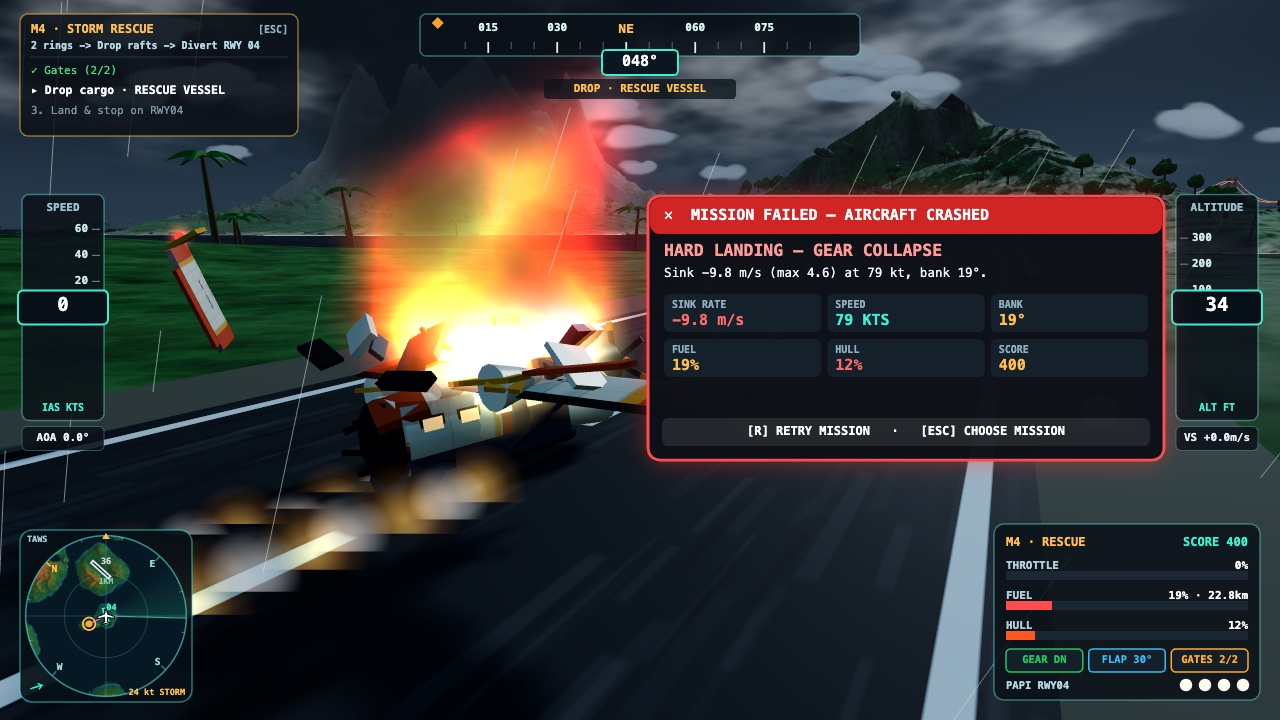
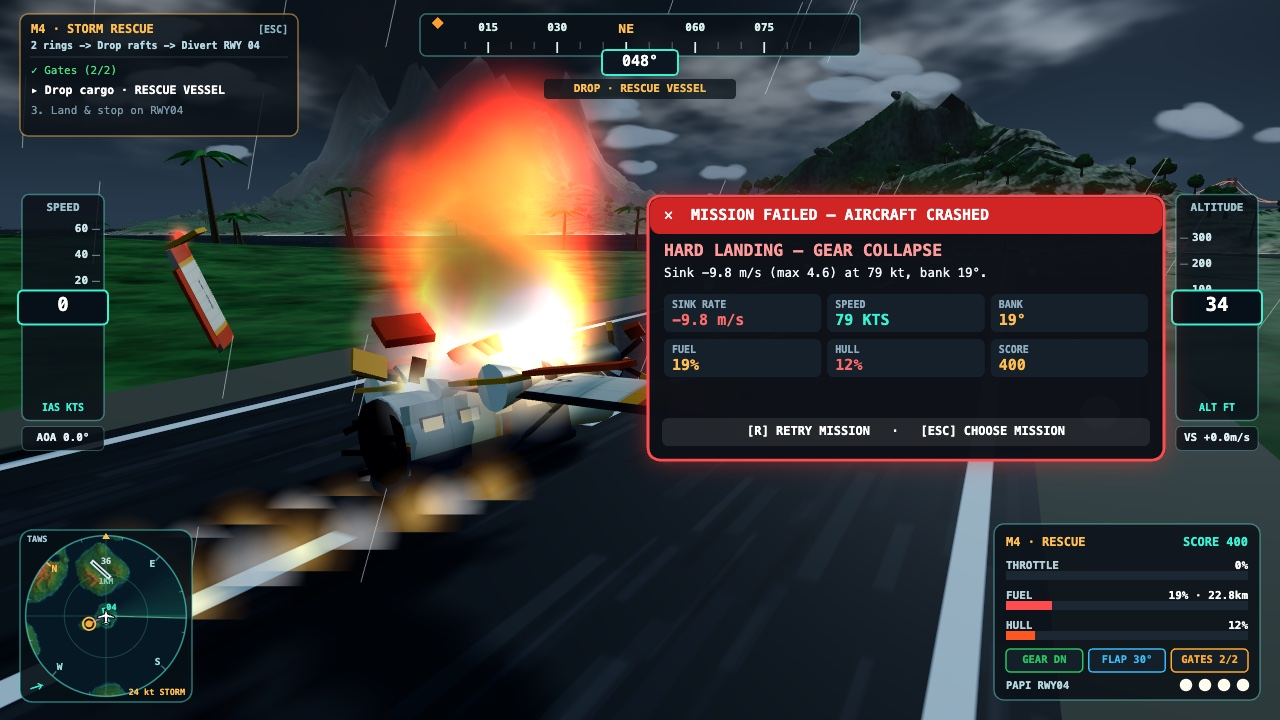
Garuda v4: realistic inelastic crash stopping (5-point ground friction) & delayed post-impact fuel fire

Changed region(s): [[0.125, 0.0611, 0.5312, 0.825], [0.1562, 0.8556, 0.1875, 0.8861]]

diff --git a/game/src/flight-collision.js b/game/src/flight-collision.js
@@ -1,4 +1,4 @@
-// 5-point airframe terrain/obstacle collision, progressive malfunction cascade, Coulomb static stop, and buoyant water ditching.
+// 5-point airframe terrain/obstacle collision, progressive malfunction cascade, realistic inelastic stop, delayed fuel fire & ditching.
 import * as T from 'three';
 import { AIRCRAFT_SPEC as SP, GRAVITY as G, MPS_TO_KTS } from './config.js';
 import { getRunwayAt, sampleTerrainHeight as sH, sampleTerrainNormal as sN } from './terrain-world.js';
@@ -13,42 +13,52 @@ export const AIRFRAME_PROBES = [
 export function enforceAirframeAboveTerrain(s, margin = 0.45) {
   let pen=0;const wp=v3();
   for(const p of AIRFRAME_PROBES){wp.copy(p.local).applyQuaternion(s.quaternion).add(s.position);pen=MX(pen,MX(0,sH(wp.x,wp.z))+margin-wp.y);}
-  if(pen>0)s.position.y+=pen;
+  if(pen>0){s.position.y+=pen;return true;}
+  return false;
 }
 
-export function triggerCrash(s, mode, title, detail, sinkMps, speedKts, bankDeg, onRunway, sev = 'catastrophic') {
+export function triggerCrash(s, mode, title, detail, sinkMps, speedKts, bankDeg, onRunway, sev = 'catastrophic', cause = 'terrain') {
   const cat=sev==='catastrophic',hull=MN(s.hullPct,cat?12:34);
-  Object.assign(s,{status:'crashed',crashMode:mode,crashSeverity:sev,crashImpactKts:speedKts,crashTime:0,cameraShake:cat?.98:.62,hullPct:hull,engineHealth:MN(s.engineHealth,cat?8:28),gearIntact:false,throttle:0,incidentReport:{outcome:'CRASHED',crashMode:mode,severity:sev,title,detail,sinkMps,speedKts,bankDeg,onRunway,fuelPct:s.fuelPct,hullPct:hull}});
-  if(mode==='ground'){s.velocity.multiplyScalar(cat?.54:.44);s.velocity.y=MN(0,s.velocity.y*.12);s.angularVel.set(0,(Math.random()>.5?1:-1)*(cat?.85:.4),0);enforceAirframeAboveTerrain(s,.35);}
-  else{s.velocity.multiplyScalar(.11);s.velocity.y=MN(-4.5,s.velocity.y*.45);s.position.y=MN(s.position.y,.45);}
+  const fire=mode!=='water'&&cat&&(cause==='obstacle'||cause==='mountain'||speedKts>=86||sinkMps>=13);
+  const fDelay=cause==='obstacle'||cause==='mountain'?.85:1.15;
+  Object.assign(s,{status:'crashed',crashMode:mode,crashSeverity:sev,crashCause:cause,hasFuelFire:fire,fuelFireDelay:fDelay,fuelFireIntensity:0,crashImpactKts:speedKts,crashTime:0,cameraShake:cat?.95:.6,hullPct:hull,engineHealth:MN(s.engineHealth,cat?8:28),gearIntact:false,throttle:0,incidentReport:{outcome:'CRASHED',crashMode:mode,crashCause:cause,severity:sev,hasFuelFire:fire,title,detail,sinkMps,speedKts,bankDeg,onRunway,fuelPct:s.fuelPct,hullPct:hull}});
+  if(mode==='ground'){
+    const keep=cause==='obstacle'?.16:cause==='mountain'?.2:cause==='runway'?(cat?.44:.48):.32;
+    s.velocity.multiplyScalar(keep);s.velocity.y=MN(0,s.velocity.y*(cause==='obstacle'?.2:.12));
+    s.angularVel.set(0,(Math.random()>.5?1:-1)*(cause==='obstacle'?.55:cat?.7:.35),0);enforceAirframeAboveTerrain(s,.35);
+  }else{s.velocity.multiplyScalar(.09);s.velocity.y=MN(-4.5,s.velocity.y*.4);s.position.y=MN(s.position.y,.45);}
 }
 
 export function stepCrashAnimation(s, dt, wind, updTel) {
   const v=s.velocity,pos=s.position;
-  s.crashTime+=dt;s.cameraShake=MX(0,s.cameraShake-dt*1.6);
-  s.propRpm=MX(0,s.propRpm-dt*.42);s.propRpmLeft=MX(0,s.propRpmLeft-dt*.65);
+  s.crashTime+=dt;s.cameraShake=MX(0,s.cameraShake-dt*1.8);
+  if(s.hasFuelFire&&s.crashTime>s.fuelFireDelay)s.fuelFireIntensity=MN(1,s.fuelFireIntensity+dt*.85);
+  s.propRpm=MX(0,s.propRpm-dt*.48);s.propRpmLeft=MX(0,s.propRpmLeft-dt*.72);
   s.propAngle+=dt*s.propRpm*46;s.propAngleLeft+=dt*s.propRpmLeft*46;
 
   if(s.crashMode==='water'){
     const hs=HY(v.x,v.z);
-    if(hs>.12){const sc=MX(0,1-(MN(hs/dt,6.4+.42*hs*hs)*dt)/hs);v.x*=sc;v.z*=sc;}else v.x=v.z=0;
+    if(hs>.1){const sc=MX(0,1-(MN(hs/dt,12.5+.72*hs*hs)*dt)/hs);v.x*=sc;v.z*=sc;}else v.x=v.z=0;
     const e=toE(s.quaternion);
     if(s.crashSeverity==='hard'&&s.crashTime<7.5){v.y=(-.35+Math.sin(s.crashTime*2.1)*.16-pos.y)*2.6;pos.addScaledVector(v,dt);e.x+=(.06-e.x)*MN(1,dt*2.4);e.z+=(.14-e.z)*MN(1,dt*1.8);}
     else{if(pos.y>-13.5){const tv=pos.y>-.8?-4.8:-(1.55+MN(1,s.crashTime/2.2)*1.15);v.y=MN(-.6,v.y+(tv-v.y)*MN(1,dt*7.5));pos.addScaledVector(v,dt);}else v.set(0,0,0);e.x+=(-.68-e.x)*MN(1,dt*3.4);e.z+=(.52-e.z)*MN(1,dt*1.6);e.y+=dt*.05;}
     s.quaternion.setFromEuler(e);
   }else{
     const tY=sH(pos.x,pos.z),gY=MX(0,tY),n=sN(pos.x,pos.z);
-    if(pos.y<=gY+1.55&&s.crashTime>.35&&v.length()<1.35){v.set(0,0,0);s.angularVel.set(0,0,0);enforceAirframeAboveTerrain(s,.35);updTel(s,wind);return;}
     v.y-=G*dt;pos.addScaledVector(v,dt);
-    if(tY<-.4&&pos.y<=.8){s.crashMode='water';v.y=MN(-1.2,v.y*.25);updTel(s,wind);return;}
-    if(pos.y<=gY+1.35){
-      pos.y=gY+1.35;const vn=v.dot(n);if(vn<0)v.addScaledVector(n,-vn);if(v.y>0)v.y=0;
-      const spd=v.length();if(spd>1.35)v.multiplyScalar(MX(0,1-((1.22*G+spd*.55)*dt)/spd));else{v.set(0,0,0);s.angularVel.set(0,0,0);}
-      const e=toE(s.quaternion),k=MN(1,dt*4.5);
+    if(tY<-.4&&pos.y<=.8){s.crashMode='water';s.hasFuelFire=false;s.fuelFireIntensity=0;v.y=MN(-1.2,v.y*.25);updTel(s,wind);return;}
+    const hitG=enforceAirframeAboveTerrain(s,.35);
+    if(hitG||pos.y<=gY+1.72){
+      if(pos.y<gY+1.35)pos.y=gY+1.35;
+      const vn=v.dot(n);if(vn<0)v.addScaledVector(n,-vn);if(v.y>0)v.y=0;
+      const spd=v.length(),onRw=Boolean(getRunwayAt(pos.x,pos.z,8));
+      const dec=onRw?1.15*G+spd*.32:(s.crashCause==='obstacle'||s.crashCause==='mountain'?3.2*G+spd*1.1:2.5*G+spd*.8);
+      if(spd>1.2)v.multiplyScalar(MX(0,1-(dec*dt)/spd));else{v.set(0,0,0);s.angularVel.set(0,0,0);}
+      const e=toE(s.quaternion),k=MN(1,dt*5.2);
       e.x+=(AT(-n.z,n.y)*.65-.03-e.x)*k;e.z+=(AT(n.x,n.y)*.65+(e.z>=0?.22:-.22)-e.z)*k;e.y+=s.angularVel.y*dt;
-      s.quaternion.setFromEuler(e);s.angularVel.multiplyScalar(MX(0,1-dt*4.2));
+      s.quaternion.setFromEuler(e);s.angularVel.multiplyScalar(MX(0,1-dt*5.5));
+      enforceAirframeAboveTerrain(s,.35);
     }else s.quaternion.multiply(new T.Quaternion().setFromEuler(new T.Euler(s.angularVel.x*dt,s.angularVel.y*dt,s.angularVel.z*dt,'YXZ'))).normalize();
-    enforceAirframeAboveTerrain(s,.35);
   }
   updTel(s,wind);
 }
@@ -64,30 +74,30 @@ export function resolveAirframeContacts(s, ctrl, dt, ev, checkObs) {
       const L=pr.name==='leftWing';mf[L?'leftEngineOut':'fuelLeak']=true;
       ev?.onMalfunction?.(L?{code:'PORT ENGINE OUT',detail:'Tree struck left wing.'}:{code:'WING FUEL LEAK',detail:'Tree punctured wing tank.'});break;
     }
-    return crash('ground',hit.label,`Struck ${hit.kind==='tree'?'tree':'structure'} at ${R(kts)} kt (${pr.name}).`,A(v.y),kts,A(s.rollDeg),false,kts>=78||hit.kind!=='tree'?'catastrophic':'hard');
+    return crash('ground',hit.label,`Struck ${hit.kind==='tree'?'tree':'structure'} at ${R(kts)} kt (${pr.name}).`,A(v.y),kts,A(s.rollDeg),false,kts>=82||hit.kind!=='tree'?'catastrophic':'hard','obstacle');
   }
 
   if(!s.onGround)for(const pr of AIRFRAME_PROBES){
     if(pr.name==='belly'||pr.name==='tail')continue;
     wp.copy(pr.local).applyQuaternion(s.quaternion).add(p);const pY=sH(wp.x,wp.z);
-    if(pY>1.5&&wp.y<=pY+.4){const n=sN(wp.x,wp.z);if(!getRunwayAt(p.x,p.z,6)&&(n.y<.86||kts>55))return crash('ground',n.y<.82?'MOUNTAIN IMPACT':'TERRAIN IMPACT',`Airframe (${pr.name}) struck slope at ${R(kts)} kt.`,MX(0,-v.y),kts,A(s.rollDeg),false,'catastrophic');}
+    if(pY>1.5&&wp.y<=pY+.4){const n=sN(wp.x,wp.z);if(!getRunwayAt(p.x,p.z,6)&&(n.y<.86||kts>55))return crash('ground',n.y<.82?'MOUNTAIN IMPACT':'TERRAIN IMPACT',`Airframe (${pr.name}) struck slope at ${R(kts)} kt.`,MX(0,-v.y),kts,A(s.rollDeg),false,kts>=80||n.y<.82?'catastrophic':'hard',n.y<.85?'mountain':'terrain');}
   }
 
   const tY=sH(p.x,p.z),sY=MX(0,tY),gC=s.gearDown&&s.gearIntact?2.45:1.35;
   if(p.y<=sY+gC){
-    const sk=-v.y,isW=tY<.25,rw=getRunwayAt(p.x,p.z,6),bk=A(s.rollDeg);
+    const sk=-v.y,isW=tY<.25,rw=getRunwayAt(p.x,p.z,6),bk=A(s.rollDeg),cs=rw?'runway':'terrain';
     if(!s.onGround&&(sk>.5||isW)){
-      if(isW){const d=kts<75&&sk<6.5;crash('water',d?'EMERGENCY WATER DITCHING':'WATER IMPACT — SINKING',d?`Ditched at ${R(kts)} kt (-${sk.toFixed(1)} m/s). Floating briefly.`:`Hit ocean at ${R(kts)} kt (-${sk.toFixed(1)} m/s). Flooding rapidly.`,sk,kts,bk,false,d?'hard':'catastrophic');}
+      if(isW){const d=kts<75&&sk<6.5;crash('water',d?'EMERGENCY WATER DITCHING':'WATER IMPACT — SINKING',d?`Ditched at ${R(kts)} kt (-${sk.toFixed(1)} m/s). Floating briefly.`:`Hit ocean at ${R(kts)} kt (-${sk.toFixed(1)} m/s). Flooding rapidly.`,sk,kts,bk,false,d?'hard':'catastrophic','water');}
       else if(sk>SP.crashSinkMps||bk>28){
         if(s.hullPct>55&&kts<82&&sk<10.5&&bk<=34&&rw){
           s.hullPct=MX(28,s.hullPct-36);s.engineHealth=MX(35,s.engineHealth-32);s.gearIntact=false;s.cameraShake=.72;mf.leftEngineOut=mf.gearDamaged=mf.controlDamage=true;
           ev?.onTouchdown?.({sinkMps:sk,hard:true,onRunway:true,gearUp:false});ev?.onMalfunction?.({code:'PORT ENGINE & GEAR FAILURE',detail:'Severe touchdown damaged left engine & gear!'});
-        }else crash('ground',bk>28?`WINGTIP STRIKE (${R(bk)}° BANK)`:'HARD LANDING — GEAR COLLAPSE',`Sink -${sk.toFixed(1)} m/s (max 4.6) at ${R(kts)} kt, bank ${R(bk)}°.`,sk,kts,bk,Boolean(rw),kts>=88||sk>=13||bk>45?'catastrophic':'hard');
+        }else crash('ground',bk>28?`WINGTIP STRIKE (${R(bk)}° BANK)`:'HARD LANDING — GEAR COLLAPSE',`Sink -${sk.toFixed(1)} m/s (max 4.6) at ${R(kts)} kt, bank ${R(bk)}°.`,sk,kts,bk,Boolean(rw),kts>=92||sk>=13.5||bk>48?'catastrophic':'hard',cs);
       }else if(!s.gearDown){
         s.hullPct=MX(12,s.hullPct-36);s.engineHealth=MX(40,s.engineHealth-28);mf.flapJammed=true;
-        if(kts>82)crash('ground','GEAR-UP IMPACT',`Belly impact at ${R(kts)} kt with gear retracted.`,sk,kts,bk,Boolean(rw),kts>=98?'catastrophic':'hard');
+        if(kts>82)crash('ground','GEAR-UP IMPACT',`Belly impact at ${R(kts)} kt with gear retracted.`,sk,kts,bk,Boolean(rw),kts>=102?'catastrophic':'hard',cs);
         else{s.cameraShake=.55;ev?.onTouchdown?.({sinkMps:sk,hard:true,onRunway:Boolean(rw),gearUp:true});ev?.onMalfunction?.({code:'BELLY SCRAPE · FLAPS JAMMED',detail:'Belly touchdown jammed flaps.'});}
-      }else if(!rw&&kts>58){const n=sN(p.x,p.z);crash('ground',n.y<.85?'MOUNTAIN IMPACT':'TERRAIN IMPACT',`Impacted terrain at ${R(kts)} kt (-${sk.toFixed(1)} m/s).`,sk,kts,bk,false,kts>=82||n.y<.78?'catastrophic':'hard');}
+      }else if(!rw&&kts>58){const n=sN(p.x,p.z);crash('ground',n.y<.85?'MOUNTAIN IMPACT':'TERRAIN IMPACT',`Impacted terrain at ${R(kts)} kt (-${sk.toFixed(1)} m/s).`,sk,kts,bk,false,kts>=84||n.y<.78?'catastrophic':'hard',n.y<.85?'mountain':'terrain');}
       else{
         const hd=sk>SP.maxSafeSinkMps;
         if(hd){s.hullPct=MX(25,s.hullPct-R((sk-3.5)*9));s.gearIntact=sk<7.2;s.cameraShake=.45;if(sk>6){mf.gearDamaged=!s.gearIntact;mf.leftEngineOut=sk>6.8;ev?.onMalfunction?.(sk>6.8?{code:'PROP STRIKE · ENGINE #1 OUT',detail:'Damaged left engine.'}:{code:'GEAR STRUT DAMAGED',detail:'Bent main gear.'});}}

diff --git a/game/src/effects-particles.js b/game/src/effects-particles.js
@@ -72,10 +72,14 @@ export function createEffectsSystem(scene) {
     }
   };
 
-  function emitRoaringFireBurst(wp, q, fy, isW = false, sev = 'catastrophic') {
+  function emitRoaringFireBurst(wp, q, fy, isW = false, sev = 'catastrophic', cause = 'terrain', postFire = false) {
     if(isW){emitWaterSplash(wp,1.45);for(let i=0;i<14;i++)emit(v3(wp.x+rn(8),1+R()*2.5,wp.z+rn(8)),v3(rn(3.5),2.2+R()*2.6,rn(3.5)),'#e8f5fa',2+R()*.8,4,13,.55);return;}
-    if(sev==='hard'){shed(wp,v3(),fy,5);for(let i=0;i<8;i++)emit(jit(wp,3.2,.8+i*.7,3.2),v3(rn(2),2.5+R()*2.2,rn(2)),i<2?'#ff8c2b':'#2d333a',1.5+R()*.8,2.2,8,i<2?.85:.62,0,i<2);return;}
-    shed(wp,v3(),fy,16,true);
+    const cat=sev==='catastrophic';
+    shed(wp,v3(),fy,cat?14:6,cat);
+    const dustCl=cause==='runway'||cause==='obstacle'?'#8a949e':'#6b5742';
+    for(let i=0;i<(cat?16:10);i++)emit(jit(wp,4.4,.5+R()*1.8,4.4),v3(rn(7.5),2.2+R()*4.2,rn(7.5)),i%3?dustCl:'#2c333a',1.4+R()*.9,2.8,cat?11.5:8.5,.7,-3.5);
+    for(let i=0;i<(cat?12:8);i++)emit(jit(wp,2.8,.4+R()*1.2,2.8),v3(rn(9),3.5+R()*5.5,rn(9)),i%2?'#ffe680':'#ffaa2b',.38+R()*.25,1.1,2.2,.95,-14,true);
+    if(!postFire)return;
     for(const anc of [v3(3.15,1,-.5),v3(1.6,.6,.3),v3(-2.6,1.1,-.8),v3(.4,.9,-1.6)]){
       const o=anc.applyQuaternion(q).add(wp);
       for(let i=0;i<4;i++)emit(jit(o,1.4,i*.65,1.4),v3(rn(1.6),2.8+R()*2,rn(1.6)),i<2?'#fff0a6':'#ff991a',.7+R()*.4,2.8+R()*1.4,5.5,.95,0,true);
@@ -99,22 +103,22 @@ export function createEffectsSystem(scene) {
   rL.visible=rL.frustumCulled=false;scene.add(rL);
 
   function updateEffects(dt, tS, s, cP, rain, isC) {
-    const inW=s.crashMode==='water',cat=s.status==='crashed'&&s.crashSeverity!=='hard';
+    const inW=s.crashMode==='water',fi=s.fuelFireIntensity??0;
     if(inW){if((fC+=dt)>=.065){fC=0;emit(v3(s.position.x+rn(7),.35,s.position.z+rn(7)),v3(rn(2),1.6+R()*1.8,rn(2)),++bI%2?'#c2dce6':'#eef9ff',1.6,2.6,9.2,.52);}}
     else if(s.status==='crashed'||s.hullPct<68||s.engineHealth<68||s.malfunctions?.leftEngineOut){
-      if((fC+=dt)>=(s.status==='crashed'?.032:.055)){
+      if((fC+=dt)>=(fi>.1?.036:.06)){
         fC=0;const wp=(s.status==='crashed'&&R()<.45?v3(-2.4+R()*5.2,.8,-1.2+R()*2):v3(3.15,.9,-.35)).applyQuaternion(s.quaternion).add(s.position);
-        if(cat||(s.status!=='crashed'&&s.hullPct<45))emit(jit(wp,1.2,.2,1.2),v3(rn(2.4),4.4+R()*3,rn(2.4)),R()<.35?'#fff0a6':R()<.7?'#ff6a00':'#d9260a',.48+R()*.3,2.6+R()*1.6,6.4,.94,0,true);
-        emit(jit(wp,1.4,1.2,1.4),v3(rn(2.5),4.2+R()*2.4,rn(2.5)),'#22282e',2.1,3,12.5,.68);
+        if(fi>.05||(s.status!=='crashed'&&s.hullPct<40))emit(jit(wp,1.2,.2,1.2),v3(rn(2.4),(2.6+fi*2.4)+R()*2.6,rn(2.4)),R()<.35?'#fff0a6':R()<.7?'#ff6a00':'#d9260a',.45+R()*.3,(1.6+fi*1.8)+R()*1.2,3.5+fi*3.2,.55+fi*.4,0,true);
+        emit(jit(wp,1.4,1.1,1.4),v3(rn(2.4),3.6+R()*2.2,rn(2.4)),'#22282e',2,2.6,11.5,.62);
       }
     }
     if(s.status==='crashed'&&s.crashMode==='ground'){
       const hs=HY(s.velocity.x,s.velocity.z),gy=sH(s.position.x,s.position.z);
-      if(gy>.25&&s.position.y<=gy+3.2&&hs>1.2&&(!lastG||HY(s.position.x-lastG.x,s.position.z-lastG.z)>=2.1)){
-        const yw=Math.atan2(-s.velocity.x,-s.velocity.z),wg=v3(4.8,0,0).applyQuaternion(s.quaternion).add(s.position);
+      if(gy>.25&&s.position.y<=gy+3.2&&hs>1.4&&(!lastG||HY(s.position.x-lastG.x,s.position.z-lastG.z)>=1.9)){
+        const yw=Math.atan2(-s.velocity.x,-s.velocity.z),wg=v3(4.8,0,0).applyQuaternion(s.quaternion).add(s.position),rw=s.crashCause==='runway';
         stamp(s.position.x,s.position.z,yw,1.05,1.15);stamp(wg.x,wg.z,yw,.55,.9);lastG=s.position.clone();
         if(hs>9.5)shed(s.position,s.velocity,gy,hs>18?3:1);
-        for(let k=0;k<3;k++)emit(v3(s.position.x+rn(4.5),gy+.6,s.position.z+rn(4.5)),v3(-s.velocity.x*.25+rn(5.5),2.5+R()*4.2,-s.velocity.z*.25+rn(5.5)),k?'#524030':'#ffc44d',k?1.35:.38,k?2.8:1.5,k?9.2:2.6,k?.72:.95,-9.5,!k);
+        for(let k=0;k<4;k++){const spk=k<(rw?2:1);emit(v3(s.position.x+rn(4.2),gy+.55,s.position.z+rn(4.2)),v3(-s.velocity.x*.28+rn(6),2.4+R()*4.6,-s.velocity.z*.28+rn(6)),spk?'#ffd666':rw?'#cbd5e1':'#5c4835',spk?.36:1.3,spk?1.2:2.6,spk?2.2:9,spk?.95:.72,spk?-13:-7,spk);}
       }
     }
     for(const p of pool){if(p.l<=0)continue;if((p.l-=dt)<=0){p.sp.visible=false;continue;}const r=1-p.l/p.mx;if(p.g)p.v.y+=p.g*dt;p.sp.position.addScaledVector(p.v,dt);p.sp.scale.setScalar(p.s0+(p.s1-p.s0)*r);p.m.opacity=p.o*(1-r*r);}

diff --git a/game/src/flight-physics.js b/game/src/flight-physics.js
@@ -13,7 +13,7 @@ export function createFlightState() {
     throttle:.72,flapStage:0,gearDown:true,brakes:false,fuelKg:SP.fuelCapacityKg,fuelPct:100,fuelRangeKm:42,inThermal:false,
     hullPct:100,engineHealth:100,gearIntact:true,engineTempC:540,propAngle:0,propAngleLeft:0,propRpm:.72,propRpmLeft:.72,
     airspeedMps:62,airspeedKts:120,altitudeM:165,altitudeFt:541,aglM:150,headingDeg:0,pitchDeg:0,rollDeg:0,vsiMps:0,aoaDeg:3,gLoad:1,
-    stalling:false,overspeed:false,lowFuel:false,onGround:false,status:'flying',crashMode:null,crashSeverity:null,crashImpactKts:0,crashTime:0,cameraShake:0,touchdownTimer:0,
+    stalling:false,overspeed:false,lowFuel:false,onGround:false,status:'flying',crashMode:null,crashSeverity:null,crashCause:null,hasFuelFire:false,fuelFireDelay:1,fuelFireIntensity:0,crashImpactKts:0,crashTime:0,cameraShake:0,touchdownTimer:0,
     malfunctions:{leftEngineOut:false,fuelLeak:false,flapJammed:false,controlDamage:false,gearDamaged:false},
     controlSurface:{aileron:0,elevator:0,rudder:0,flaps:0},activeRunwayId:'RWY36',papiGlideDeg:4.5,papiWhiteCount:2,incidentReport:null,
   };
@@ -41,7 +41,7 @@ export function resetFlightState(s, p) {
   s.position.set(p.x,p.y,p.z);s.quaternion.setFromEuler(new T.Euler(((p.pitchDeg??0)*PI)/180,(-p.headingDeg*PI)/180,((p.rollDeg??0)*PI)/180,'YXZ'));
   s.velocity.copy(qD(FWD,s.quaternion)).multiplyScalar((p.speedKts??115)/MPS_TO_KTS);s.angularVel.set(0,0,0);
   const thr=p.throttle??.68,fp=p.fuelPct??100;
-  Object.assign(s,{throttle:thr,flapStage:p.flapStage??0,gearDown:p.gearDown??false,brakes:false,fuelPct:fp,fuelKg:(fp/100)*SP.fuelCapacityKg,hullPct:p.hullPct??100,engineHealth:p.engineHealth??100,gearIntact:true,engineTempC:540,propRpm:MX(.25,thr),propRpmLeft:MX(.25,thr),onGround:Boolean(p.onGround),status:'flying',crashMode:null,crashSeverity:null,incidentReport:null,crashImpactKts:0,crashTime:0,cameraShake:0,touchdownTimer:0,malfunctions:{leftEngineOut:false,fuelLeak:false,flapJammed:false,controlDamage:false,gearDamaged:false}});
+  Object.assign(s,{throttle:thr,flapStage:p.flapStage??0,gearDown:p.gearDown??false,brakes:false,fuelPct:fp,fuelKg:(fp/100)*SP.fuelCapacityKg,hullPct:p.hullPct??100,engineHealth:p.engineHealth??100,gearIntact:true,engineTempC:540,propRpm:MX(.25,thr),propRpmLeft:MX(.25,thr),onGround:Boolean(p.onGround),status:'flying',crashMode:null,crashSeverity:null,crashCause:null,hasFuelFire:false,fuelFireDelay:1,fuelFireIntensity:0,incidentReport:null,crashImpactKts:0,crashTime:0,cameraShake:0,touchdownTimer:0,malfunctions:{leftEngineOut:false,fuelLeak:false,flapJammed:false,controlDamage:false,gearDamaged:false}});
   updateDerivedTelemetry(s,v3());
 }
 

diff --git a/game/src/shots.js b/game/src/shots.js
@@ -31,11 +31,11 @@ export function applyShotPreset(name, { flightState: s, missionManager: mm, worl
   if (name === 'debrief') {
     const m = mm.loadMission(3); mm.setShowcaseProgress(2, 400); world.setAtmospherePreset(m.atmosphere);
     rst(-760, 10.35, 860, 48, 0, 11, 0, 0, 2, true, 19, 12, 8, true);
-    Object.assign(s, { status: 'crashed', crashMode: 'ground', crashSeverity: 'catastrophic', propRpm: 0, propRpmLeft: 0, gearIntact: false, incidentReport: { outcome: 'CRASHED', title: 'HARD LANDING — GEAR COLLAPSE', detail: 'Sink -9.8 m/s (max 4.6) at 79 kt, bank 19°.', sinkMps: 9.8, speedKts: 79, bankDeg: 19, onRunway: true, fuelPct: 19, hullPct: 12 } });
+    Object.assign(s, { status: 'crashed', crashMode: 'ground', crashCause: 'runway', crashSeverity: 'catastrophic', hasFuelFire: true, crashTime: 2.6, fuelFireDelay: 0.9, fuelFireIntensity: 1, propRpm: 0, propRpmLeft: 0, gearIntact: false, incidentReport: { outcome: 'CRASHED', title: 'HARD LANDING — GEAR COLLAPSE', detail: 'Sink -9.8 m/s (max 4.6) at 79 kt, bank 19°.', sinkMps: 9.8, speedKts: 79, bankDeg: 19, onRunway: true, fuelPct: 19, hullPct: 12 } });
     rig.setMode('orbit'); rig.setCustomOrbitAngle(1.42);
     for (let k = 0; k < 28; k++) ac.updateAircraftModel(s, 0.04, 10.3 + k * 0.04, true);
     world.updateWorld(0.05, 11.4, s.position, m.wind, s.quaternion); rig.updateCamera(s, 0.05, true);
-    fx.stampCrashGougeTrail(s.position, s.headingDeg, 36); fx.emitRoaringFireBurst(s.position, s.quaternion, 8.5, false);
+    fx.stampCrashGougeTrail(s.position, s.headingDeg, 36); fx.emitRoaringFireBurst(s.position, s.quaternion, 8.5, false, 'catastrophic', 'runway', true);
     fx.emitTouchdownSmoke(s.position, s.quaternion, true); fx.updateEffects(0.18, 11.58, s, camera.position, 1, false);
     ck.updateCockpit(s, 35, false, false, 11.58, 1); return true;
   }

diff --git a/game/src/main.js b/game/src/main.js
@@ -98,10 +98,10 @@ function bootGaruda() {
     onMalfunction:(f)=>{aud.playTouchdown(true);hud.showBanner(`MALFUNCTION: ${f.code}`,'danger',3.4);rad(`Caution Garuda 4! ${f.code}. ${f.detail}`,true);},
     onFullStop:(r)=>{aud.playRingChime();hud.showBanner(r.title,'good',4);rad(r.missionComplete?'Merpati Tower: Full stop confirmed. Mission complete!':'Merpati Tower: Full stop confirmed. Mission gates remain open.');},
     onCrash:(r)=>{
-      const fy=Math.max(0,sampleTerrainHeight(st.position.x,st.position.z));fx.emitRoaringFireBurst(st.position,st.quaternion,fy,r.crashMode==='water',r.severity||'catastrophic');
+      const fy=Math.max(0,sampleTerrainHeight(st.position.x,st.position.z));fx.emitRoaringFireBurst(st.position,st.quaternion,fy,r.crashMode==='water',r.severity||'catastrophic',r.crashCause||'terrain',false);
       if(r.crashMode!=='water')fx.emitTouchdownSmoke(st.position,st.quaternion,true);
       aud.playCrash();hud.showBanner(r.title,'danger',4.5);
-      rad(r.crashMode==='water'?'SAR Dispatch: Garuda 4 in the water! Coast Guard deploying.':r.severity==='hard'?'Tower: Hard impact on deck — crash trucks rolling!':'Mayday! Catastrophic impact — rescue dispatched!',true);
+      rad(r.crashMode==='water'?'SAR Dispatch: Garuda 4 in the water! Coast Guard deploying.':r.hasFuelFire?'Mayday! Severe impact — fire trucks rolling!':'Tower: Hard impact on deck — crash crew rolling!',true);
     },
   };
 

diff --git a/README.md b/README.md
@@ -7,7 +7,7 @@
 **Garuda** is an original offline 3D archipelago bush-pilot and maritime rescue flight simulator built for desktop Chrome. Pilot the twin-turboprop **Garuda G-4** across a `9.2 km × 9.2 km` volcanic archipelago with 9 islands, ridged multifractal peaks, Gerstner ocean waves, dynamic weather (`CLEAR / DUSK / RAIN / STORM`), and three runways complete with live PAPI glideslope lamps and windsocks.
 
 ### Key Features & Modular Architecture
-- **Newtonian 6-DOF Flight & Progressive Damage (`flight-physics.js`, `flight-collision.js`, `aircraft-breakup.js`)**: ISA density altitude, aspect-ratio induced drag, AoA lift/stall envelope, gimbal-safe anti-flip clamping, 5-point airframe terrain/obstacle collision, progressive malfunctions (`PORT ENGINE OUT`, `FUEL LEAK`, `FLAPS JAMMED`, `GEAR DAMAGE`), physical 3-part detachment (tailboom, left outer wing, left prop), rotational prop spin-down, Coulomb static stop, buoyant water ditching, and persistent ground gouge trenches.
+- **Newtonian 6-DOF Flight & Progressive Damage (`flight-physics.js`, `flight-collision.js`, `aircraft-breakup.js`)**: ISA density altitude, aspect-ratio induced drag, AoA lift/stall envelope, gimbal-safe anti-flip clamping, 5-point airframe terrain/obstacle collision, progressive malfunctions (`PORT ENGINE OUT`, `FUEL LEAK`, `FLAPS JAMMED`, `GEAR DAMAGE`), physical 3-part detachment (tailboom, left outer wing, left prop), rotational prop spin-down, surface-dependent inelastic crash stopping (rapid obstacle/soil plow vs runway sparks slide), delayed post-impact fuel fire (no instant Hollywood explosion), buoyant water ditching, and persistent ground gouge trenches.
 - **Built 3D Aircraft & King Air Cockpit (`aircraft-model.js`, `cockpit-interior.js`, `cockpit-controls.js`, `cockpit-gauges.js`, `procedural-textures.js`)**: NACA airfoil wings, riveted livery (`PK-GRD`), ICAO nav lights, toggleable 3D cockpit (`C`) with sculpted ram's-horn yoke, PT6 power/prop/cond pedestal quadrant, articulated 3D pilot hands & sleeves (2-link IK), automatic rain wipers, 3D glass HUD combiner, and 1280×480 live illuminated 6-pack gauges.
 - **9.2 km Volcanic Archipelago (`terrain-world.js`, `terrain-height.js`, `ocean-sky.js`, `world-landmarks.js`, `world-foliage.js`)**: `420×420` terrain mesh with normal maps, wave-warped aircraft ocean shadow/reflection, volumetric lighthouse beam, suspension bridge, 860 branching highland trees, 340 coastal palms, 640 craggy boulders, and 64 painted cumulus cloud banks.
 - **Four Sorties, Topographic TAWS Radar & Procedural VHF Radio (`missions.js`, `hud-instruments.js`, `hud-radar.js`, `effects-particles.js`, `audio-engine.js`, `camera-rig.js`, `input-controls.js`)**: *Lighthouse Mail*, *Caldera Drop*, *Cliff Crosswind*, and *Storm Rescue* with onboarding Flight Briefing modal, heading-up topographic TAWS radar, thumbnail-clear HUD & outcome debrief cards, and Web Audio turboprop + bandpass VHF radio comms.
